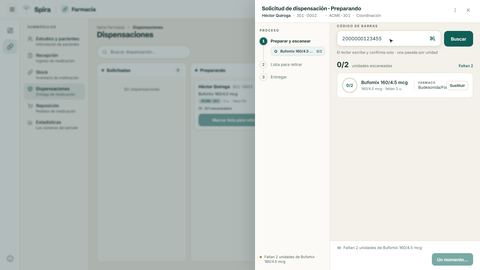
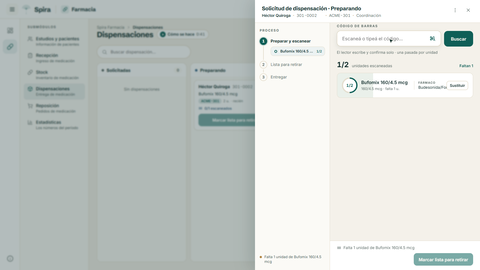
feat(tutoriales): la voz final es ElevenLabs (Lionel) y «Dispensar» se regraba con ella
- `tutoriales/lib/voz.ts`: adaptador de ElevenLabs (`eleven_multilingual_v2`, mp3 44,1 kHz → WAV con ffmpeg). La
  clave y la voz van en demo.env (`TTS_KEY`, `TTS_VOZ_ID`); con las dos, la fábrica usa ElevenLabs y si no, Helena.
  Caché por voz + modelo + texto: regrabar sin cambiar el texto no gasta créditos.
- `npm run demo:verificar` comprueba la voz y dice su nombre («Lionel - Natural and Versatile Narrator»).
- «Dispensar» regrabado: 41,5 s (antes 51,5), versión 02accad0, audio −22 dB medio / −1 dB pico. El guion espera
  al contador después de cada escaneo: con la voz más ágil, «el contador muestra cuántas llevás» sonaba con el
  contador todavía en 1/2.
- Capturas de referencia nuevas; `tutoriales:verificar` pasa (cuatro corridas). El cierre de jornada aclara que una
  falla aislada se corre otra vez antes de regrabar.

ORDEN: subir tutoriales/salida/dispensar/02accad0/ a Storage › tutoriales/dispensar/ en prod ANTES del merge.

diff --git a/tutoriales/lib/voz.ts b/tutoriales/lib/voz.ts
@@ -3,14 +3,16 @@ import { execFile } from 'node:child_process'
 import { existsSync, mkdirSync, readFileSync, writeFileSync } from 'node:fs'
 import { join } from 'node:path'
 import { promisify } from 'node:util'
+import ffmpeg from 'ffmpeg-static'
+import { leerConfigDemo } from '../../scripts/demo/config.mjs'
 import { duracionWavMs } from './wav'
 
 /* ============================================================================
    La voz del tutorial. UNA interfaz chica y un adaptador por proveedor (docs/plan-tutoriales.md: «la voz se
-   elige de oído»). Mientras el Director no elija, el único adaptador es la voz que trae Windows: Helena,
-   castellano de España. NO es la voz final —el acento no es el nuestro—, pero es gratis, no pide claves y
-   permite probar la fábrica de punta a punta. Cambiar de voz = agregar un adaptador y elegirlo con
-   `TUTORIALES_VOZ`, sin tocar el resto.
+   elige de oído»). La FINAL es de ElevenLabs (decisión del Director, 2026-10-14): la clave y la voz elegida van
+   en `%USERPROFILE%\.spira\demo.env` (`TTS_KEY`, `TTS_VOZ_ID`), fuera del repo. Si no están, la fábrica usa
+   Helena, la voz que trae Windows (castellano de España: sirve para probar, no para publicar). Se fuerza una u
+   otra con `TUTORIALES_VOZ` (`elevenlabs` · `windows-helena`).
 
    Caché por (voz + texto): regrabar un tutorial porque cambió la pantalla no vuelve a sintetizar las frases
    que no cambiaron. Con un proveedor pago, eso además es plata.
@@ -45,12 +47,42 @@ export const vozWindowsHelena: Voz = {
   },
 }
 
-const VOCES: Record<string, Voz> = { [vozWindowsHelena.id]: vozWindowsHelena }
+/**
+ * ElevenLabs. El modelo multilingüe (`eleven_multilingual_v2`, cambiable con `TUTORIALES_ELEVENLABS_MODELO`) y
+ * el mp3 de 44,1 kHz, que todos los planes dan; ffmpeg lo pasa a WAV, que es lo que mide y mezcla la fábrica.
+ * El `id` lleva la voz y el modelo: cambiar cualquiera de los dos vuelve a sintetizar (no reusa la caché).
+ * Los errores nunca muestran la clave: sólo el status y lo que contesta el proveedor.
+ */
+export function vozElevenLabs(): Voz {
+  const { ttsKey, ttsVozId } = leerConfigDemo()
+  if (!ttsKey || !ttsVozId) {
+    throw new Error('Para la voz de ElevenLabs faltan TTS_KEY y TTS_VOZ_ID en %USERPROFILE%\\.spira\\demo.env (o usá TUTORIALES_VOZ=windows-helena).')
+  }
+  const modelo = process.env.TUTORIALES_ELEVENLABS_MODELO ?? 'eleven_multilingual_v2'
+  return {
+    id: `elevenlabs-${ttsVozId}-${modelo}`,
+    async sintetizar(texto, destino) {
+      const r = await fetch(`https://api.elevenlabs.io/v1/text-to-speech/${encodeURIComponent(ttsVozId)}?output_format=mp3_44100_128`, {
+        method: 'POST',
+        headers: { 'xi-api-key': ttsKey, 'Content-Type': 'application/json', Accept: 'audio/mpeg' },
+        body: JSON.stringify({ text: texto, model_id: modelo }),
+      })
+      if (!r.ok) throw new Error(`ElevenLabs respondió HTTP ${r.status}: ${(await r.text().catch(() => '')).slice(0, 300)}`)
+      const mp3 = `${destino}.mp3`
+      writeFileSync(mp3, Buffer.from(await r.arrayBuffer()))
+      if (!ffmpeg) throw new Error('ffmpeg-static no encontró el binario. Corré `npm run tutoriales:instalar`.')
+      await correr(ffmpeg, ['-hide_banner', '-loglevel', 'error', '-y', '-i', mp3, '-ac', '1', '-ar', '44100', destino], { windowsHide: true })
+    },
+  }
+}
 
-export function elegirVoz(id = process.env.TUTORIALES_VOZ ?? vozWindowsHelena.id): Voz {
-  const voz = VOCES[id]
-  if (!voz) throw new Error(`Voz desconocida «${id}». Disponibles: ${Object.keys(VOCES).join(', ')}.`)
-  return voz
+/** La voz de la toma: la elegida con `TUTORIALES_VOZ`; si no, ElevenLabs si está configurada, y si no, Helena. */
+export function elegirVoz(id = process.env.TUTORIALES_VOZ): Voz {
+  if (id === 'windows-helena') return vozWindowsHelena
+  if (id === 'elevenlabs') return vozElevenLabs()
+  if (id) throw new Error(`Voz desconocida «${id}». Disponibles: elevenlabs, windows-helena.`)
+  const { ttsKey, ttsVozId } = leerConfigDemo()
+  return ttsKey && ttsVozId ? vozElevenLabs() : vozWindowsHelena
 }
 
 /** Sintetiza (o reusa de la caché) y devuelve la ruta del WAV y cuánto dura. */

diff --git a/tutoriales/guiones/dispensar.ts b/tutoriales/guiones/dispensar.ts
@@ -19,6 +19,15 @@ const CODIGO = '2000000123455'
  *  dispensación · Preparando» → «D-1-… · Lista para retirar»), y en esta pantalla es el único diálogo. */
 const cajon = (e: Escena) => e.page.getByRole('dialog')
 
+/** Escanea una unidad y ESPERA a que el contador lo cuente («1/2», «2/2»). El escaneo va al servidor: sin esta
+ *  espera, la voz decía «el contador muestra cuántas llevás» con el contador todavía atrás (grabación con
+ *  Lionel, 2026-10-14). */
+async function escanear(e: Escena, contador: string) {
+  await e.escribir(e.page.getByLabel('Código de barras'), CODIGO)
+  await e.page.keyboard.press('Enter')
+  await cajon(e).getByText(contador, { exact: true }).first().waitFor({ timeout: 15_000 })
+}
+
 export default guion('dispensar', {
   cuenta: 'farma',
   pasos: [
@@ -42,18 +51,12 @@ export default guion('dispensar', {
     },
     {
       dice: 'Escaneá cada unidad con el lector. Spira controla que sea el medicamento del pedido.',
-      hace: async (e) => {
-        await e.escribir(e.page.getByLabel('Código de barras'), CODIGO)
-        await e.page.keyboard.press('Enter')
-      },
+      hace: async (e) => { await escanear(e, '1/2') },
       capitulo: 'Escanear',
     },
     {
       dice: 'Una pasada por unidad: el contador muestra cuántas llevás.',
-      hace: async (e) => {
-        await e.escribir(e.page.getByLabel('Código de barras'), CODIGO)
-        await e.page.keyboard.press('Enter')
-      },
+      hace: async (e) => { await escanear(e, '2/2') },
     },
     {
       dice: 'Con todo escaneado, tocá «Marcar lista para retirar». Spira genera el comprobante, asigna el lote que vence primero y descuenta el stock.',

diff --git a/scripts/demo/config.test.ts b/scripts/demo/config.test.ts
@@ -58,6 +58,7 @@ describe('leerConfigDemo', () => {
       secretKey: 'sb_secret_yyy',
       dbUrl: null,
       ttsKey: null,
+      ttsVozId: null,
     })
   })
   it('archivo ausente → error con la ruta', () => {

diff --git a/.claude/skills/cierre-jornada/SKILL.md b/.claude/skills/cierre-jornada/SKILL.md
@@ -29,7 +29,7 @@ modo completo sin re-preguntar los pasos.
 | 2. Handoff | `docs/bitacora/handoff-YYYY-MM-DD.md`. Calcar el último: primera línea con links al handoff anterior y a la narrativa del día; secciones **Dónde estás / Lo hecho esta jornada / Decisiones tomadas (no re-discutir) / PRÓXIMO PASO (próxima sesión) / Cómo verificar al retomar**. |
 | 3. Memoria | Vive en `~/.claude/projects/C--Users-usuario-FS-Desktop-Spira-Spira-App/memory/` (ojo: hay memorias de **otros** proyectos Spira —`Spira-Pharma`, `Spira-Identidad-Visual`— que NO son esta). Actualizar `spira-estado-proyecto.md` y el índice `MEMORY.md`. **`spira-estado-proyecto.md` es un puntero, no una copia del estado**: lo único que se toca en cada cierre es la línea que dice cuál es el handoff más reciente. Si de la jornada salió algo durable que el repo NO registra (una preferencia del Director, un gotcha reusable), va como archivo propio + su línea en `MEMORY.md`. **Read SIEMPRE antes de Edit** — editar memoria solo grepeada es la causa #1 de errores acá. |
 | 4. Commit | Por ruta. Push solo si el Director lo pide o ya era la operativa del día. Al final, decí explícito qué quedó local y qué en origin. |
-| 5. Tutoriales | **¿Cambió alguna pantalla que tiene tutorial?** Las pantallas están en `src/ayuda/tutoriales.ts` (campo `vista`, p. ej. `pharma/dispensaciones`). Si la jornada tocó alguna —o algo que se ve en ella—, o hay duda: `npm run tutoriales:verificar` (resetea el demo y recorre cada guion sin voz ni video, ~1 min por tutorial; necesita `%USERPROFILE%\.spira\demo.env`). Si falla, dice el tutorial, el paso y si fue un control que ya no existe o la pantalla que cambió (con la imagen de la diferencia en `tutoriales/.trabajo/playwright/`). **No frena el cierre**: anotalo en la bitácora y en Pendientes, y ese tutorial se regraba (`npm run tutoriales:grabar -- -g <id>`). Un video regrabado tiene versión nueva: se sube su carpeta a Storage › `tutoriales` en prod ANTES de mergear el `tutoriales.meta.json` que la publica (docs/plan-tutoriales.md, T6 y T7). |
+| 5. Tutoriales | **¿Cambió alguna pantalla que tiene tutorial?** Las pantallas están en `src/ayuda/tutoriales.ts` (campo `vista`, p. ej. `pharma/dispensaciones`). Si la jornada tocó alguna —o algo que se ve en ella—, o hay duda: `npm run tutoriales:verificar` (resetea el demo y recorre cada guion sin voz ni video, ~1 min por tutorial; necesita `%USERPROFILE%\.spira\demo.env`). Si falla, dice el tutorial, el paso y si fue un control que ya no existe o la pantalla que cambió (con la imagen de la diferencia en `tutoriales/.trabajo/playwright/`). Si falla una vez, **corrélo de nuevo antes de creerle**: una vez, justo después de grabar, falló una corrida y las cuatro siguientes pasaron (2026-10-14). **No frena el cierre**: anotalo en la bitácora y en Pendientes, y ese tutorial se regraba (`npm run tutoriales:grabar -- -g <id>`). Un video regrabado tiene versión nueva: se sube su carpeta a Storage › `tutoriales` en prod ANTES de mergear el `tutoriales.meta.json` que la publica (docs/plan-tutoriales.md, T6 y T7). |
 
 ## Modo release (además del cierre)
 

diff --git a/docs/plan-tutoriales.md b/docs/plan-tutoriales.md
@@ -684,6 +684,12 @@ Carriles: **T0** primero (30 min). Después **A**, **B** y **C** en paralelo (no
   - Surfaced by: D2, D9
   - Files: `tutoriales/guiones/dispensar.ts`, `supabase/migrations/0156_bucket_tutoriales.sql`, `supabase/README.md`, `src/ayuda/tutoriales.meta.json` (lo escribe la fábrica), `tutoriales/capturas/dispensar/`, `tutoriales/{playwright.config,grabar.pw}.ts`, `tutoriales/lib/{grabar,guion,demo}.ts`, `scripts/demo/{config,guardia}.d.mts`, `src/views/pharma/wizard/ScanField.tsx`
   - Verify: el Director aplica la 0156, sube la carpeta y mira el piloto en la app
+  - **Voz final: ElevenLabs, «Lionel – Natural and Versatile Narrator»** (decisión del Director, 2026-10-14). Quedó como un adaptador más en `tutoriales/lib/voz.ts`.
+    - La clave y la voz van en `demo.env`: `TTS_KEY` y `TTS_VOZ_ID`, fuera del repo. `npm run demo:verificar` comprueba que respondan y dice el nombre de la voz.
+    - Con las dos puestas, la fábrica usa ElevenLabs. Sin ellas, Helena. Se fuerza con `TUTORIALES_VOZ`.
+    - El modelo es `eleven_multilingual_v2`, y el audio, mp3 de 44,1 kHz pasado a WAV con ffmpeg. La caché va por voz + modelo + texto: regrabar sin cambiar el texto no gasta créditos.
+    - **«Dispensar» regrabado con Lionel:** 41,5 s (Helena: 51,5 s), versión `02accad0`, audio −22 dB de media y −1 dB de pico.
+    - **El guion espera al contador tras cada escaneo** (`escanear(e, '1/2')`). Con la voz más ágil, «el contador muestra cuántas llevás» sonaba con el contador todavía en 1/2: el escaneo va al servidor.
   - **Grabado el 2026-10-14 con la voz provisoria (Helena):** 51,5 s, versión `e6584347`, 1,5 MB, 5 capítulos (Entrar a Dispensaciones · Preparar el pedido · Escanear · Marcar lista · Entregar). Recorre Solicitadas → «Preparar» → dos escaneos → «Marcar lista para retirar» → «Marcar como entregado», contra el demo recién reseteado y como Julieta Paz (farma, operator). La carpeta para subir quedó en `tutoriales/salida/dispensar/e6584347/` de la carpeta del Director (git-ignorada).
     - **Sincronía voz/imagen, mirada cuadro por cuadro:** el clic de «Preparar» cae ~0,8 s después de que arranca «Tocá «Preparar»…», y el de «Marcar lista para retirar» cuando la voz dice el nombre del botón. El corrimiento que se sospechaba en T5 no se ve: no hizo falta corregir los `inicioMs`.
     - **En la app (demo):** la píldora dice «0:51» y el reproductor mide 51,52 s. Los capítulos saltan bien, y «Marcar lista» queda como actual en 0:32. La tarjeta de «Preparar» muestra el video. Sin errores de página.
